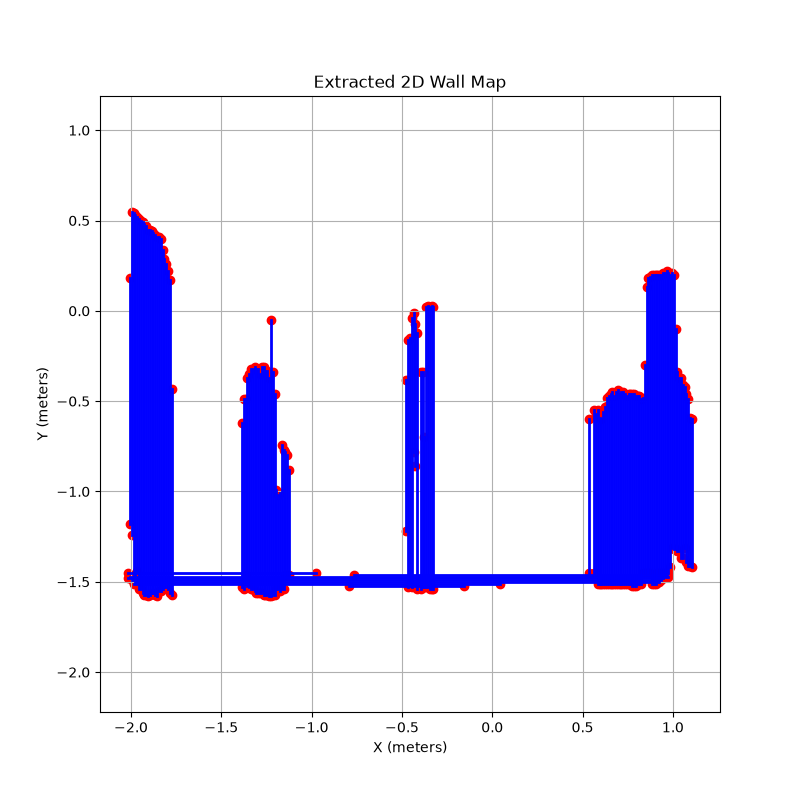
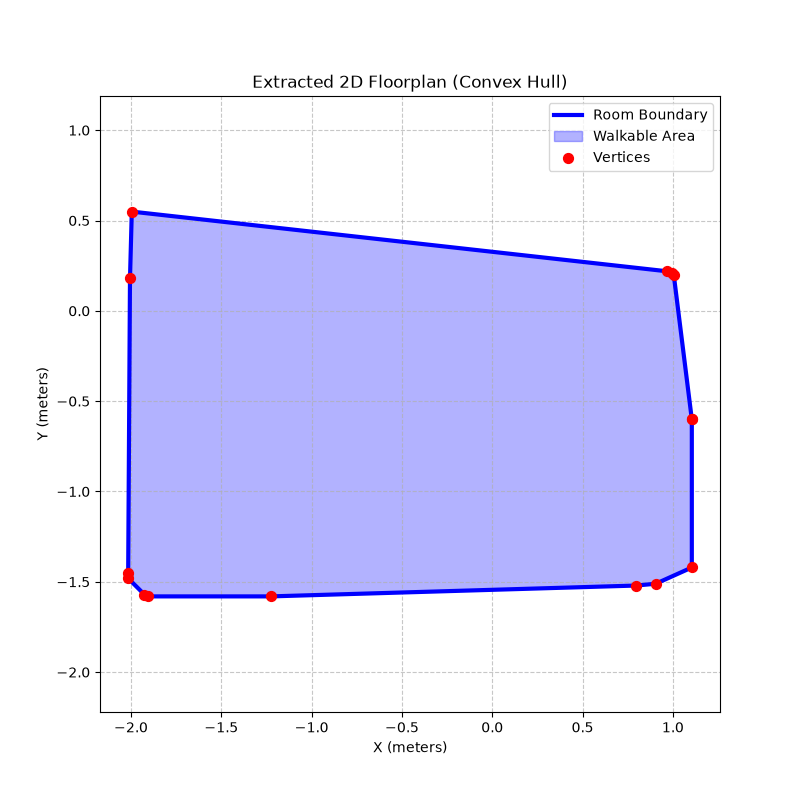
docs: regenerate floorplan visualization using clean convex hull

diff --git a/process_ply.py b/process_ply.py
@@ -104,14 +104,31 @@ def main():
         
     if args.plot and len(walls) > 0:
         plt.figure(figsize=(8, 8))
+        
+        # Collect all points to compute the Convex Hull (clean floorplan outline)
+        all_points = []
         for p1, p2 in walls:
-            plt.plot([p1[0], p2[0]], [p1[1], p2[1]], 'b-', linewidth=2)
-            plt.scatter([p1[0], p2[0]], [p1[1], p2[1]], c='r')
-        plt.title("Extracted 2D Wall Map")
+            all_points.append(p1)
+            all_points.append(p2)
+        all_points = np.array(all_points, dtype=np.float32)
+        
+        hull = cv2.convexHull(all_points)
+        hull_points = hull.reshape(-1, 2)
+        
+        # Close the polygon by appending the first point at the end
+        hull_points = np.vstack([hull_points, hull_points[0]])
+        
+        # Plot clean filled polygon outline
+        plt.plot(hull_points[:, 0], hull_points[:, 1], 'b-', linewidth=3, label="Room Boundary")
+        plt.fill(hull_points[:, 0], hull_points[:, 1], alpha=0.3, color='blue', label="Walkable Area")
+        plt.scatter(hull_points[:, 0], hull_points[:, 1], c='red', s=50, label="Vertices", zorder=5)
+        
+        plt.title("Extracted 2D Floorplan (Convex Hull)")
         plt.xlabel("X (meters)")
         plt.ylabel("Y (meters)")
         plt.axis('equal')
-        plt.grid(True)
+        plt.grid(True, linestyle='--', alpha=0.7)
+        plt.legend()
         plot_path = "output_walls.png"
         plt.savefig(plot_path)
         print(f"\nSaved 2D floorplan visualization to {plot_path}")
